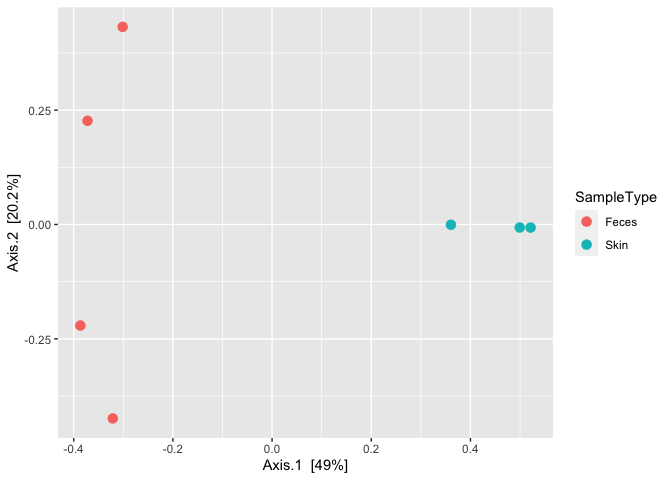
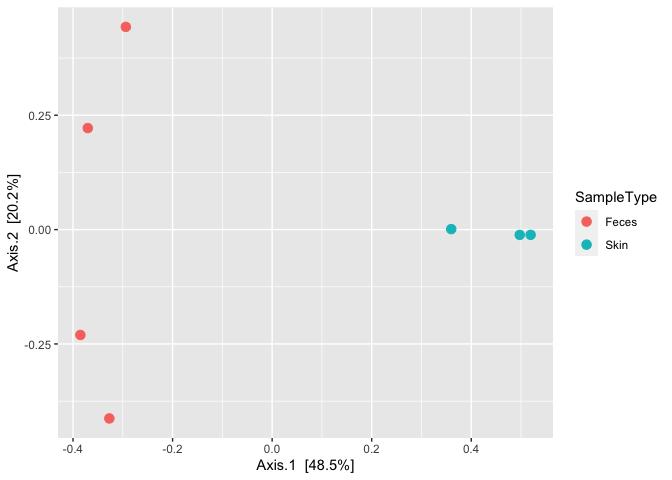
updates to readMe

diff --git a/README.md b/README.md
@@ -34,7 +34,7 @@ This basic example highlights the core functionality of the
 subsamplePhyloseq package. First, an example phyloseq object is obtained
 from the phyloseq package. Then the subsample_phyloseq() function is run
 to perform the repeated subsampling and averaging of diversity metrics.
-Finally, an example ordination is performed on the average Bray_Curtis
+Finally, an example ordination is performed on the average Bray-Curtis
 dissimilarity.
 
 Larger values for the depth of subsampling and number of repeats should
@@ -48,7 +48,6 @@ using using parallel::detectCores() - 1.
 library(subsamplePhyloseq)
 library(phyloseq)
 library(ggplot2)
-#> Warning: package 'ggplot2' was built under R version 4.1.2
 
 #Create example data
 data("GlobalPatterns")
@@ -83,43 +82,43 @@ rep_ps
 #> # A tibble: 7 × 6
 #>   id      Observed Shannon Simpson InvSimpson Fisher
 #>   <chr>      <dbl>   <dbl>   <dbl>      <dbl>  <dbl>
-#> 1 F21Plmr       55    3.09   0.932      14.8    7.67
-#> 2 M11Fcsw       78    2.87   0.897       9.75  11.6 
-#> 3 M11Plmr       84    2.62   0.852       6.74  12.7 
-#> 4 M31Fcsw       82    3.19   0.907      10.8   12.2 
-#> 5 M31Plmr       57    2.87   0.875       8.01   7.99
-#> 6 TS28          80    3.54   0.956      22.6   11.8 
-#> 7 TS29          71    2.87   0.898       9.83  10.3 
+#> 1 F21Plmr       63    3.09   0.933      14.9    8.98
+#> 2 M11Fcsw       80    2.86   0.894       9.43  11.9 
+#> 3 M11Plmr       81    2.59   0.850       6.66  12.0 
+#> 4 M31Fcsw       82    3.16   0.904      10.4   12.2 
+#> 5 M31Plmr       58    2.88   0.877       8.14   8.07
+#> 6 TS28          74    3.53   0.955      22.2   10.8 
+#> 7 TS29          70    2.84   0.895       9.57  10.2 
 #> 
 #> $bray_curtis
-#>         M31Fcsw M11Fcsw M31Plmr M11Plmr F21Plmr    TS28    TS29
-#> M31Fcsw 0.00000 0.53055 0.99365 0.98545 0.99390 0.62490 0.77225
-#> M11Fcsw 0.53055 0.00000 0.99750 0.99020 0.99755 0.78465 0.88605
-#> M31Plmr 0.99365 0.99750 0.00000 0.80835 0.36615 0.99700 0.99645
-#> M11Plmr 0.98545 0.99020 0.80835 0.00000 0.72415 0.98970 0.99000
-#> F21Plmr 0.99390 0.99755 0.36615 0.72415 0.00000 0.99715 0.99655
-#> TS28    0.62490 0.78465 0.99700 0.98970 0.99715 0.00000 0.60170
-#> TS29    0.77225 0.88605 0.99645 0.99000 0.99655 0.60170 0.00000
+#>         M31Fcsw M11Fcsw M31Plmr M11Plmr F21Plmr   TS28    TS29
+#> M31Fcsw 0.00000 0.52250 0.99235 0.98650 0.99260 0.6328 0.78495
+#> M11Fcsw 0.52250 0.00000 0.99695 0.99120 0.99630 0.7792 0.88725
+#> M31Plmr 0.99235 0.99695 0.00000 0.81360 0.37305 0.9968 0.99610
+#> M11Plmr 0.98650 0.99120 0.81360 0.00000 0.72905 0.9915 0.99150
+#> F21Plmr 0.99260 0.99630 0.37305 0.72905 0.00000 0.9964 0.99585
+#> TS28    0.63280 0.77920 0.99680 0.99150 0.99640 0.0000 0.61510
+#> TS29    0.78495 0.88725 0.99610 0.99150 0.99585 0.6151 0.00000
 #> 
 #> $jaccard
 #>           M31Fcsw   M11Fcsw   M31Plmr   M11Plmr   F21Plmr      TS28      TS29
-#> M31Fcsw 0.0000000 0.2921196 0.7860031 0.5950719 0.8138306 0.2810236 0.3094628
-#> M11Fcsw 0.2921196 0.0000000 0.8318966 0.6293000 0.8589275 0.3955670 0.3659498
-#> M31Plmr 0.7860031 0.8318966 0.0000000 0.4278923 0.3284314 0.7918919 0.8416052
-#> M11Plmr 0.5950719 0.6293000 0.4278923 0.0000000 0.4145995 0.6041667 0.6712094
-#> F21Plmr 0.8138306 0.8589275 0.3284314 0.4145995 0.0000000 0.8201754 0.8644962
-#> TS28    0.2810236 0.3955670 0.7918919 0.6041667 0.8201754 0.0000000 0.2600241
-#> TS29    0.3094628 0.3659498 0.8416052 0.6712094 0.8644962 0.2600241 0.0000000
+#> M31Fcsw 0.0000000 0.2672769 0.7761831 0.5948276 0.7558971 0.2911836 0.3566503
+#> M11Fcsw 0.2672769 0.0000000 0.8196286 0.6355932 0.7831016 0.3405213 0.3872572
+#> M31Plmr 0.7761831 0.8196286 0.0000000 0.4526217 0.4037382 0.8087445 0.8145022
+#> M11Plmr 0.5948276 0.6355932 0.4526217 0.0000000 0.4091353 0.6621682 0.6813396
+#> F21Plmr 0.7558971 0.7831016 0.4037382 0.4091353 0.0000000 0.7922149 0.8018018
+#> TS28    0.2911836 0.3405213 0.8087445 0.6621682 0.7922149 0.0000000 0.2500000
+#> TS29    0.3566503 0.3872572 0.8145022 0.6813396 0.8018018 0.2500000 0.0000000
 #> 
 #> $horn
 #>           M31Fcsw   M11Fcsw   M31Plmr   M11Plmr   F21Plmr      TS28      TS29
-#> M31Fcsw 0.0000000 0.2623441 0.9981900 0.9971549 0.9979632 0.4238101 0.8862384
-#> M11Fcsw 0.2623441 0.0000000 0.9991828 0.9981622 0.9992998 0.6073205 0.9368171
-#> M31Plmr 0.9981900 0.9991828 0.0000000 0.8829716 0.2869414 0.9988917 0.9992453
-#> M11Plmr 0.9971549 0.9981622 0.8829716 0.0000000 0.7791160 0.9972771 0.9982294
-#> F21Plmr 0.9979632 0.9992998 0.2869414 0.7791160 0.0000000 0.9986796 0.9988284
-#> TS28    0.4238101 0.6073205 0.9988917 0.9972771 0.9986796 0.0000000 0.5692798
-#> TS29    0.8862384 0.9368171 0.9992453 0.9982294 0.9988284 0.5692798 0.0000000
+#> M31Fcsw 0.0000000 0.2473972 0.9975420 0.9980491 0.9976886 0.4212470 0.8941230
+#> M11Fcsw 0.2473972 0.0000000 0.9984343 0.9990455 0.9988621 0.5911727 0.9410342
+#> M31Plmr 0.9975420 0.9984343 0.0000000 0.8891424 0.2851142 0.9983959 0.9991628
+#> M11Plmr 0.9980491 0.9990455 0.8891424 0.0000000 0.7811135 0.9982618 0.9987465
+#> F21Plmr 0.9976886 0.9988621 0.2851142 0.7811135 0.0000000 0.9980488 0.9984439
+#> TS28    0.4212470 0.5911727 0.9983959 0.9982618 0.9980488 0.0000000 0.5871055
+#> TS29    0.8941230 0.9410342 0.9991628 0.9987465 0.9984439 0.5871055 0.0000000
 #> 
 #> $subsampled_list
 #> $subsampled_list[[1]]
